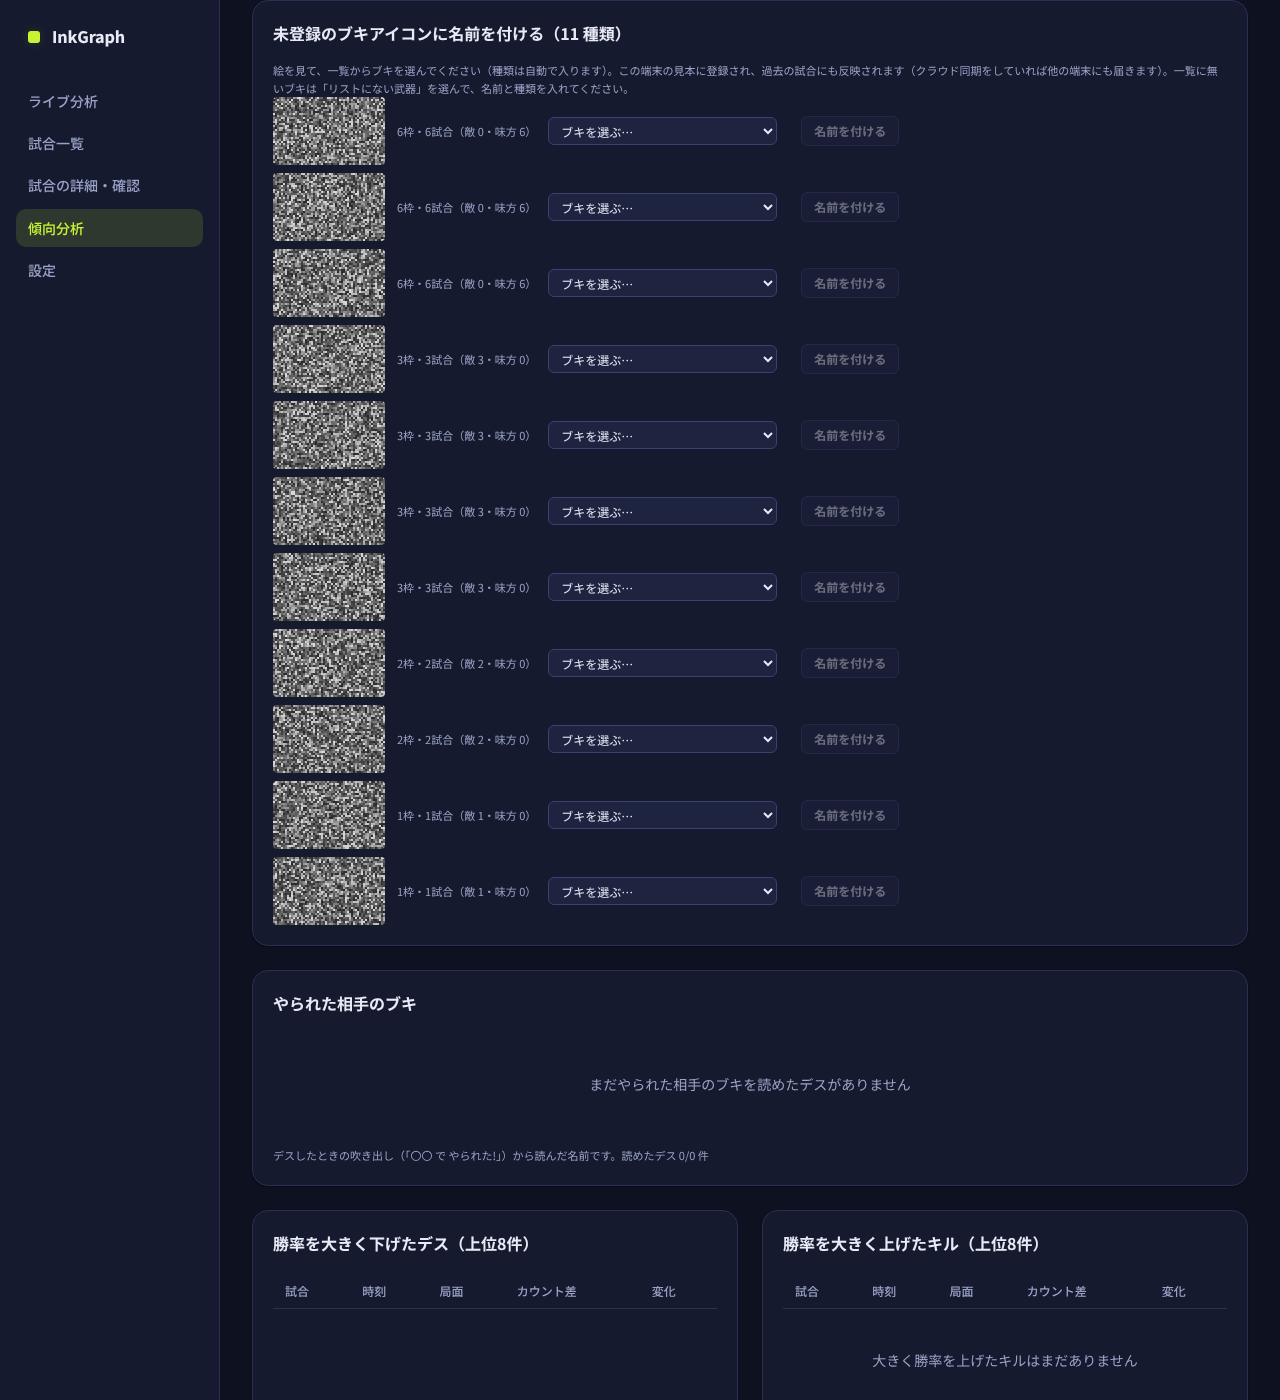
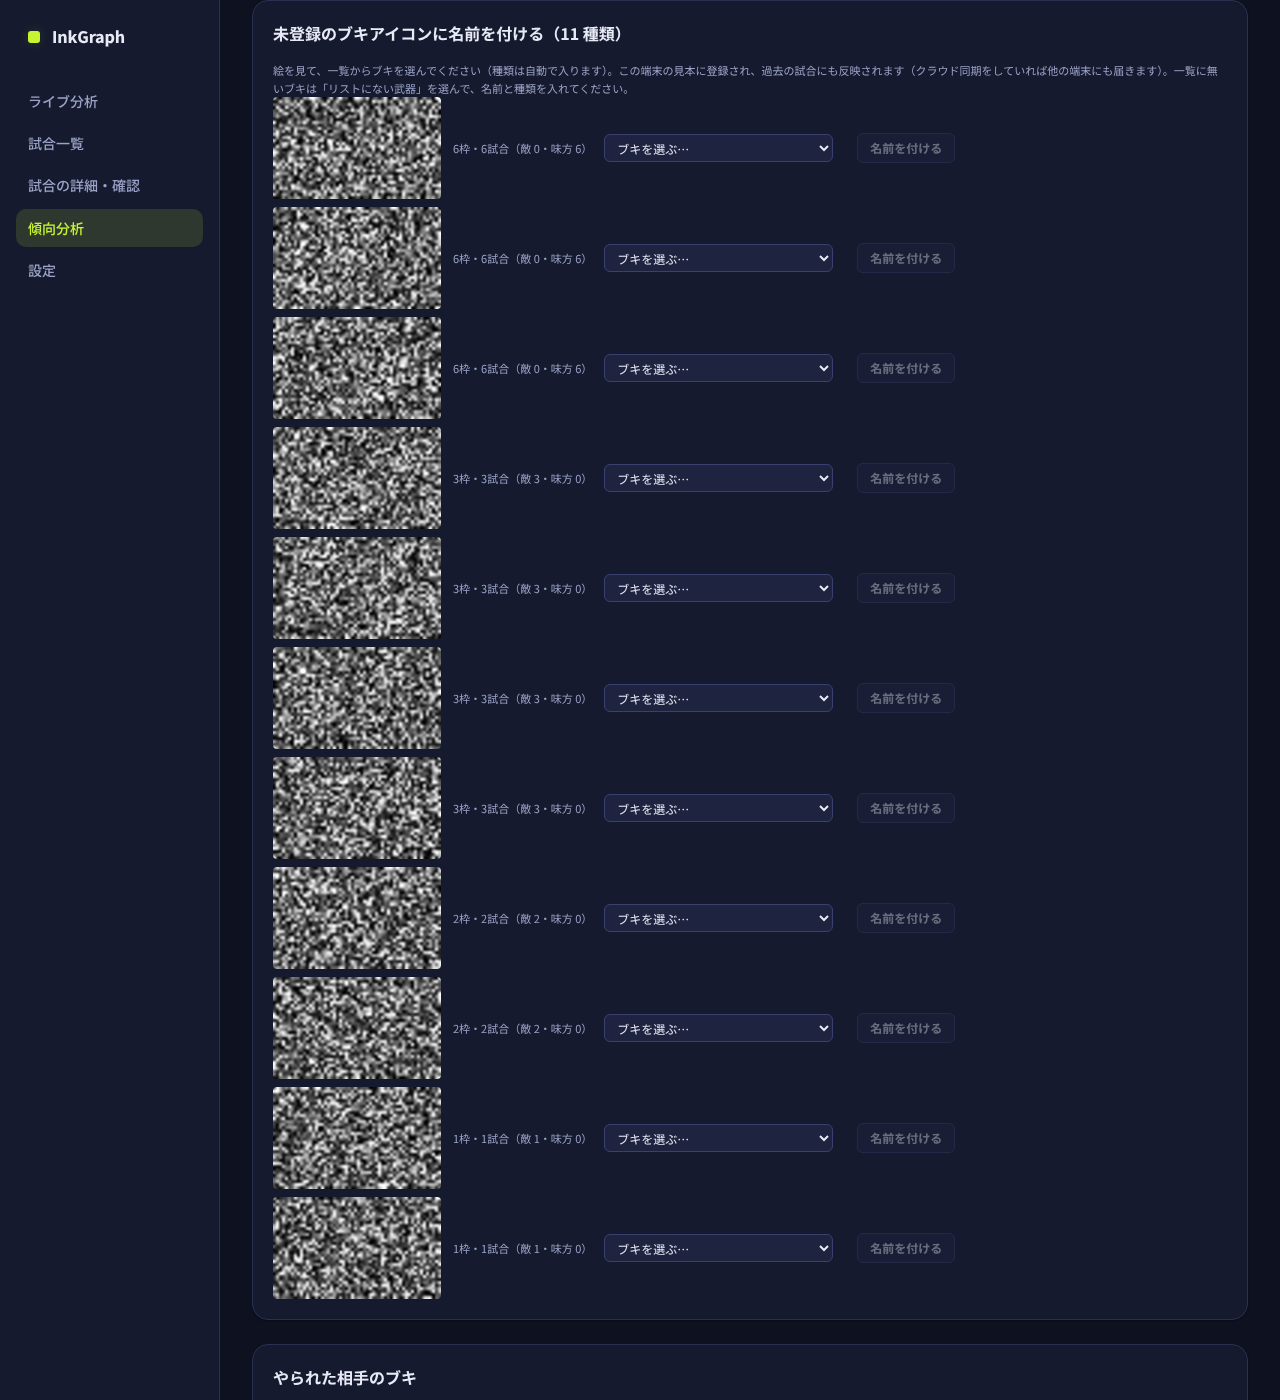
未登録ブキアイコンの表示を見やすくする (D85) (#181)
* 検証録画: 直近1試合の全コマ＋分析結果のzip書き出し (D67)

Claude-Session: https://claude.ai/code/session_018zsqgbHNLDpb8cVTBpk5SR

* 試合ごとの録画ファイル: ルール・ステージ入りの名前で1試合1ファイル (D68)

Claude-Session: https://claude.ai/code/session_018zsqgbHNLDpb8cVTBpk5SR

* 試合録画にゲーム音を追加 (D68追記)

Claude-Session: https://claude.ai/code/session_018zsqgbHNLDpb8cVTBpk5SR

* ブキアイコンの読み違い対策（ボードの数が読めない枠を捨てる・絵の無いアイコンを出さない）と記録の全消去ボタン (D69)

Claude-Session: https://claude.ai/code/session_018zsqgbHNLDpb8cVTBpk5SR

* 試合録画: 状況表示と保存先の書き込み許可の聞き直し (D70)

Claude-Session: https://claude.ai/code/session_018zsqgbHNLDpb8cVTBpk5SR

* 試合録画: 2試合連続で別ファイルになることのテストを追加

Claude-Session: https://claude.ai/code/session_018zsqgbHNLDpb8cVTBpk5SR

* Windows デスクトップ版（Electron）の追加。ブラウザ版は録画なし・隠さない注意つきで残す (D71)

Claude-Session: https://claude.ai/code/session_018zsqgbHNLDpb8cVTBpk5SR

* 録画の診断通知を各段階に追加 (D71追記)

Claude-Session: https://claude.ai/code/session_018zsqgbHNLDpb8cVTBpk5SR

* Windows版ビルドをmainの変更で自動実行し、固定リリース desktop-latest に出す

Claude-Session: https://claude.ai/code/session_018zsqgbHNLDpb8cVTBpk5SR

* ライブ映像で「早送り」が渡って録画・中断検出が切れていた不具合を修正 (D71追記)

Claude-Session: https://claude.ai/code/session_018zsqgbHNLDpb8cVTBpk5SR

* 録画形式をMP4(H.264)にする。WebMも選べる (D72)

Claude-Session: https://claude.ai/code/session_018zsqgbHNLDpb8cVTBpk5SR

* video_rec_check: 既定のMP4に合わせてテストを更新

Claude-Session: https://claude.ai/code/session_018zsqgbHNLDpb8cVTBpk5SR

* 録画を60fps・音声192kbpsに。画質(5/8/12Mbps)を選べる (D72追記)
[…]

diff --git a/web/src/main.js b/web/src/main.js
@@ -134,6 +134,7 @@ function nav(page, arg, seekTo = null) {
   }
   if (!PAGES[page]) page = 'live';
   if (page === 'live' && isNarrow()) page = 'list'; // D58: スマホなど狭い画面ではライブ分析を使わない
+  if (currentPage === 'match' && page !== 'match') reviewMode = false; // D86: 試合の詳細は、開くたびに普通モード（レビューモードは自分で入る）
   currentPage = page;
   if (arg) currentId = arg;
   pendingSeek = seekTo;
@@ -1505,7 +1506,6 @@ PAGES.match = async () => {
   };
 
   if (m.remote) reviewMode = false; // クラウドから取り込んだ試合は閲覧のみ（D58）
-  else if (m.needs_fix) reviewMode = true; // D75: 要修正の試合は、レビューモードで開く
   const r = resultOf(m);
   const rsStat = resultStatus(m);
   const matchTypeLabel = (r.match_type && MATCH_TYPE_LABEL[r.match_type]) || '不明';
@@ -2536,7 +2536,7 @@ PAGES.trend = async () => {
   const namingCardHtml = unknownGroups.length === 0 ? '' : `<div class="card trend-weapon-card" id="weapon-naming" style="margin-bottom:var(--sp-6)"><div class="card-title">未登録のブキアイコンに名前を付ける（${unknownGroups.length} 種類）</div>
       <p class="muted" style="font-size:var(--fs-xs)">絵を見て、一覧からブキを選んでください（種類は自動で入ります）。この端末の見本に登録され、過去の試合にも反映されます（クラウド同期をしていれば他の端末にも届きます）。一覧に無いブキは「リストにない武器」を選んで、名前と種類を入れてください。</p>
       <div class="weapon-naming-list" style="display:flex;flex-direction:column;gap:var(--sp-2)">${unknownGroups.slice(0, 30).map((g, i) => `<div class="weapon-naming-row" data-i="${i}" style="display:flex;align-items:center;gap:var(--sp-3);flex-wrap:wrap">
-        <canvas class="weapon-icon-canvas" width="112" height="68" data-icon="${esc(g.rep)}" style="background:#000;border-radius:4px"></canvas>
+        <canvas class="weapon-icon-canvas" width="168" height="102" data-icon="${esc(g.rep)}" style="background:#000;border-radius:4px"></canvas>
         <span class="muted" style="font-size:var(--fs-xs)">${g.slots}枠・${g.matches}試合（敵 ${g.side.enemy}・味方 ${g.side.ally}）</span>
         <select class="input-sm weapon-name-select" style="min-width:200px"><option value="">ブキを選ぶ…</option>${optionsHtml}<option value="__custom__">リストにない武器…</option></select>
         <span class="weapon-custom" hidden style="display:none;gap:var(--sp-2);align-items:center"><input class="input-sm weapon-name-input" placeholder="ブキ名" size="18"><select class="input-sm weapon-type-select">${[...WEAPON_TYPES, UNCLASSIFIED].map(t => `<option value="${esc(t)}">${esc(t)}</option>`).join('')}</select></span>
@@ -2881,10 +2881,12 @@ PAGES.trend = async () => {
 
   // D65: 未登録のブキアイコンの絵を描き、名前を付けたら見本に登録して描き直す
   page.querySelectorAll('.weapon-icon-canvas').forEach(cv => {
-    const g = b64bytes(cv.dataset.icon), ctx = cv.getContext('2d'), im = ctx.createImageData(56, 34);
-    for (let i = 0; i < 56 * 34; i++) { im.data[i * 4] = im.data[i * 4 + 1] = im.data[i * 4 + 2] = g[i]; im.data[i * 4 + 3] = 255; }
+    // D85: 保存してあるのは 56x34 のグレー。そのままだと白っぽく潰れて見えるので、明るさの幅（2〜98%）を引き伸ばし、なめらかに拡大して見せる
+    const g = b64bytes(cv.dataset.icon), ctx = cv.getContext('2d'), im = ctx.createImageData(56, 34), sorted = Array.from(g.subarray(0, 56 * 34)).sort((a, b) => a - b);
+    const lo = sorted[Math.floor(sorted.length * 0.02)], hi = sorted[Math.floor(sorted.length * 0.98)], span = Math.max(24, hi - lo);
+    for (let i = 0; i < 56 * 34; i++) { const v = Math.max(0, Math.min(255, Math.round((g[i] - lo) * 255 / span))); im.data[i * 4] = im.data[i * 4 + 1] = im.data[i * 4 + 2] = v; im.data[i * 4 + 3] = 255; }
     const tmp = document.createElement('canvas'); tmp.width = 56; tmp.height = 34; tmp.getContext('2d').putImageData(im, 0, 0);
-    ctx.imageSmoothingEnabled = false; ctx.drawImage(tmp, 0, 0, 112, 68);
+    ctx.imageSmoothingEnabled = true; ctx.imageSmoothingQuality = 'high'; ctx.drawImage(tmp, 0, 0, cv.width, cv.height);
   });
   page.querySelectorAll('.weapon-naming-row').forEach(row => {
     const sel = $('.weapon-name-select', row), custom = $('.weapon-custom', row), inp = $('.weapon-name-input', row), tsel = $('.weapon-type-select', row), auto = $('.weapon-type-auto', row), btn = $('.weapon-name-save', row);

diff --git a/web/src/core/board_icons.js b/web/src/core/board_icons.js
@@ -1,5 +1,5 @@
 // Board enemy weapon icon reading and matching (720p result screen)
-import { b64bytes } from './img.js';
+import { b64bytes, crop } from './img.js';
 
 export const BI = { x0: 696, w: 56, h: 34, ix0: 7, ix1: 49, iy0: 2, iy1: 32, match_th: 0.93, group_th: 0.93 };
 export const ROW_Y = { top: [262, 306, 350, 394], bot: [499, 543, 587, 631] };
@@ -7,17 +7,10 @@ export const AMBIG = [['リッター4K', '4Kスコープ']];
 
 /** 1280x720 RGBA fr から 56x34 の枠を切り出し、グレー Uint8Array を返す */
 export function boardIconGray(fr, dx, dy, group, idx) {
-  const x0 = BI.x0 + dx, y0 = ROW_Y[group][idx] + dy, w = BI.w, h = BI.h, o = new Uint8Array(w * h), d = fr.data, fw = fr.w, fh = fr.h;
-  for (let y = 0; y < h; y++) {
-    const fy = y0 + y;
-    for (let x = 0; x < w; x++) {
-      const fx = x0 + x;
-      if (fx >= 0 && fx < fw && fy >= 0 && fy < fh) {
-        const p = (fy * fw + fx) * 4;
-        o[y * w + x] = Math.round(0.299 * d[p] + 0.587 * d[p + 1] + 0.114 * d[p + 2]);
-      }
-    }
-  }
+  // D86: 1080p などの映像でも、720p の座標どおりに切り出す（crop は 720p 換算の面積平均）。以前は元の映像の画素を 720p の座標のまま読んでいて、1080p ではブキと別の場所を切り出していた
+  const x0 = BI.x0 + dx, y0 = ROW_Y[group][idx] + dy, w = BI.w, h = BI.h, o = new Uint8Array(w * h);
+  const c = crop(fr, x0, y0, x0 + w, y0 + h), ox = Math.max(0, -x0), oy = Math.max(0, -y0);
+  for (let y = 0; y < c.h; y++) for (let x = 0; x < c.w; x++) { const i = y * c.w + x; o[(y + oy) * w + x + ox] = Math.round(0.299 * c.r[i] + 0.587 * c.g[i] + 0.114 * c.b[i]); }
   return o;
 }
 

diff --git a/docs/DECISIONS.md b/docs/DECISIONS.md
@@ -918,3 +918,15 @@
   - **画像・クリップの保存数**のパネル：設定の画面は消した。静止画・クリップを残す試合数は既定の **直近 3 試合**（お気に入りは残す）のまま、試合の保存時に自動で整理される（`enforceRetention`）。保存自体をやめる（静止画・クリップの廃止）かどうかは未決。
 - 追加：**設定画面**（メニューの「設定」、`#settings`）。「記録をすべて消す（リセット）」と「クラウド同期（スマホでも見る）」をここへ移した。リセットの「学習結果・調整・…も初期化」の項目は「ブキの名前・各種の設定も初期化」に変更。
 - テスト：`learn_pack_check`・`self_learn_check`・`tune_panel_check`・`tuning_check`・`verify_pack_check`・`verify_rec_check` を削除。`reset_check`・`cloud_ui_check`・`retention_rotate_check` を新しい画面・関数に合わせて更新。
+
+## D85 (2026-10-29) 未登録ブキアイコンの表示を見やすくする（原因の特定は材料待ち）
+- 症状：「未登録のブキアイコンに名前を付ける」の絵が、灰色のぼやけた模様（点が輪になったもの）に見えて、何のブキか分からない。
+- 原因の見立て：保存してあるのは結果画面ボードの 56x34 の**グレー**で、色も解像度も落ちている。表示は明るさをそのまま 2 倍に拡大（補間なし）していたので、低コントラストの絵が潰れて見えた。
+- 対応（表示のみ）：明るさの幅（2〜98%）を引き伸ばし、3 倍（168x102）でなめらかに拡大する。
+- 未解決：絵そのものがブキに見えない場合は、切り出す位置のずれ（ボードの位置が違う画面）か、ブキ以外の部分を切り出している可能性がある。結果画面の元の画像が要る。録画があれば、結果画面のコマから**色つき・高解像度で切り出し直す**案もある。
+
+## D86 (2026-10-29) ブキアイコンの切り出し位置のバグ（1080p）と、試合の詳細を普通モードで開く
+- **バグ**：結果画面ボードのブキの絵（`boardIconGray`）だけが、映像の画素を 720p の座標のまま直接読んでいた。他の読み取りは `crop`（720p 換算の面積平均）を通すので、1080p の映像ではブキの絵だけが**別の場所**（ボードの背景の模様など）を切り出していた。デスクトップ版は 1080p で取り込むので、未登録のブキアイコンが「点の輪」の灰色の模様になり、ブキの統計（いた敵ブキなど）も当てにならなかった。同期済みの 10/26 後半の試合の絵は、ほぼ一様な灰色だった。
+- 修正：`boardIconGray` を `crop` 経由にした（720p の映像では従来と同じ値）。テスト `web/tools/board_icon_scale_check.mjs`（720p と 1080p で同じ場所・値になる。旧コードでは 1080p が失敗することを確認）。
+- 未対応：**すでに保存した記録のブキの絵は直らない**（1080p で取り込んだ分）。録画があれば、結果画面のコマから切り出し直して直す案がある。ブキの統計を正しくしたければ、該当の試合を消して取り直すか、この修正のあとの試合を使う。
+- 試合の詳細（確認）画面：開くたびに**普通モード**にする。要修正の試合でも自動でレビューモードにしない（D75 の「要修正の試合はレビューモードで開く」は廃止）。別のページへ移ると普通モードに戻る。
